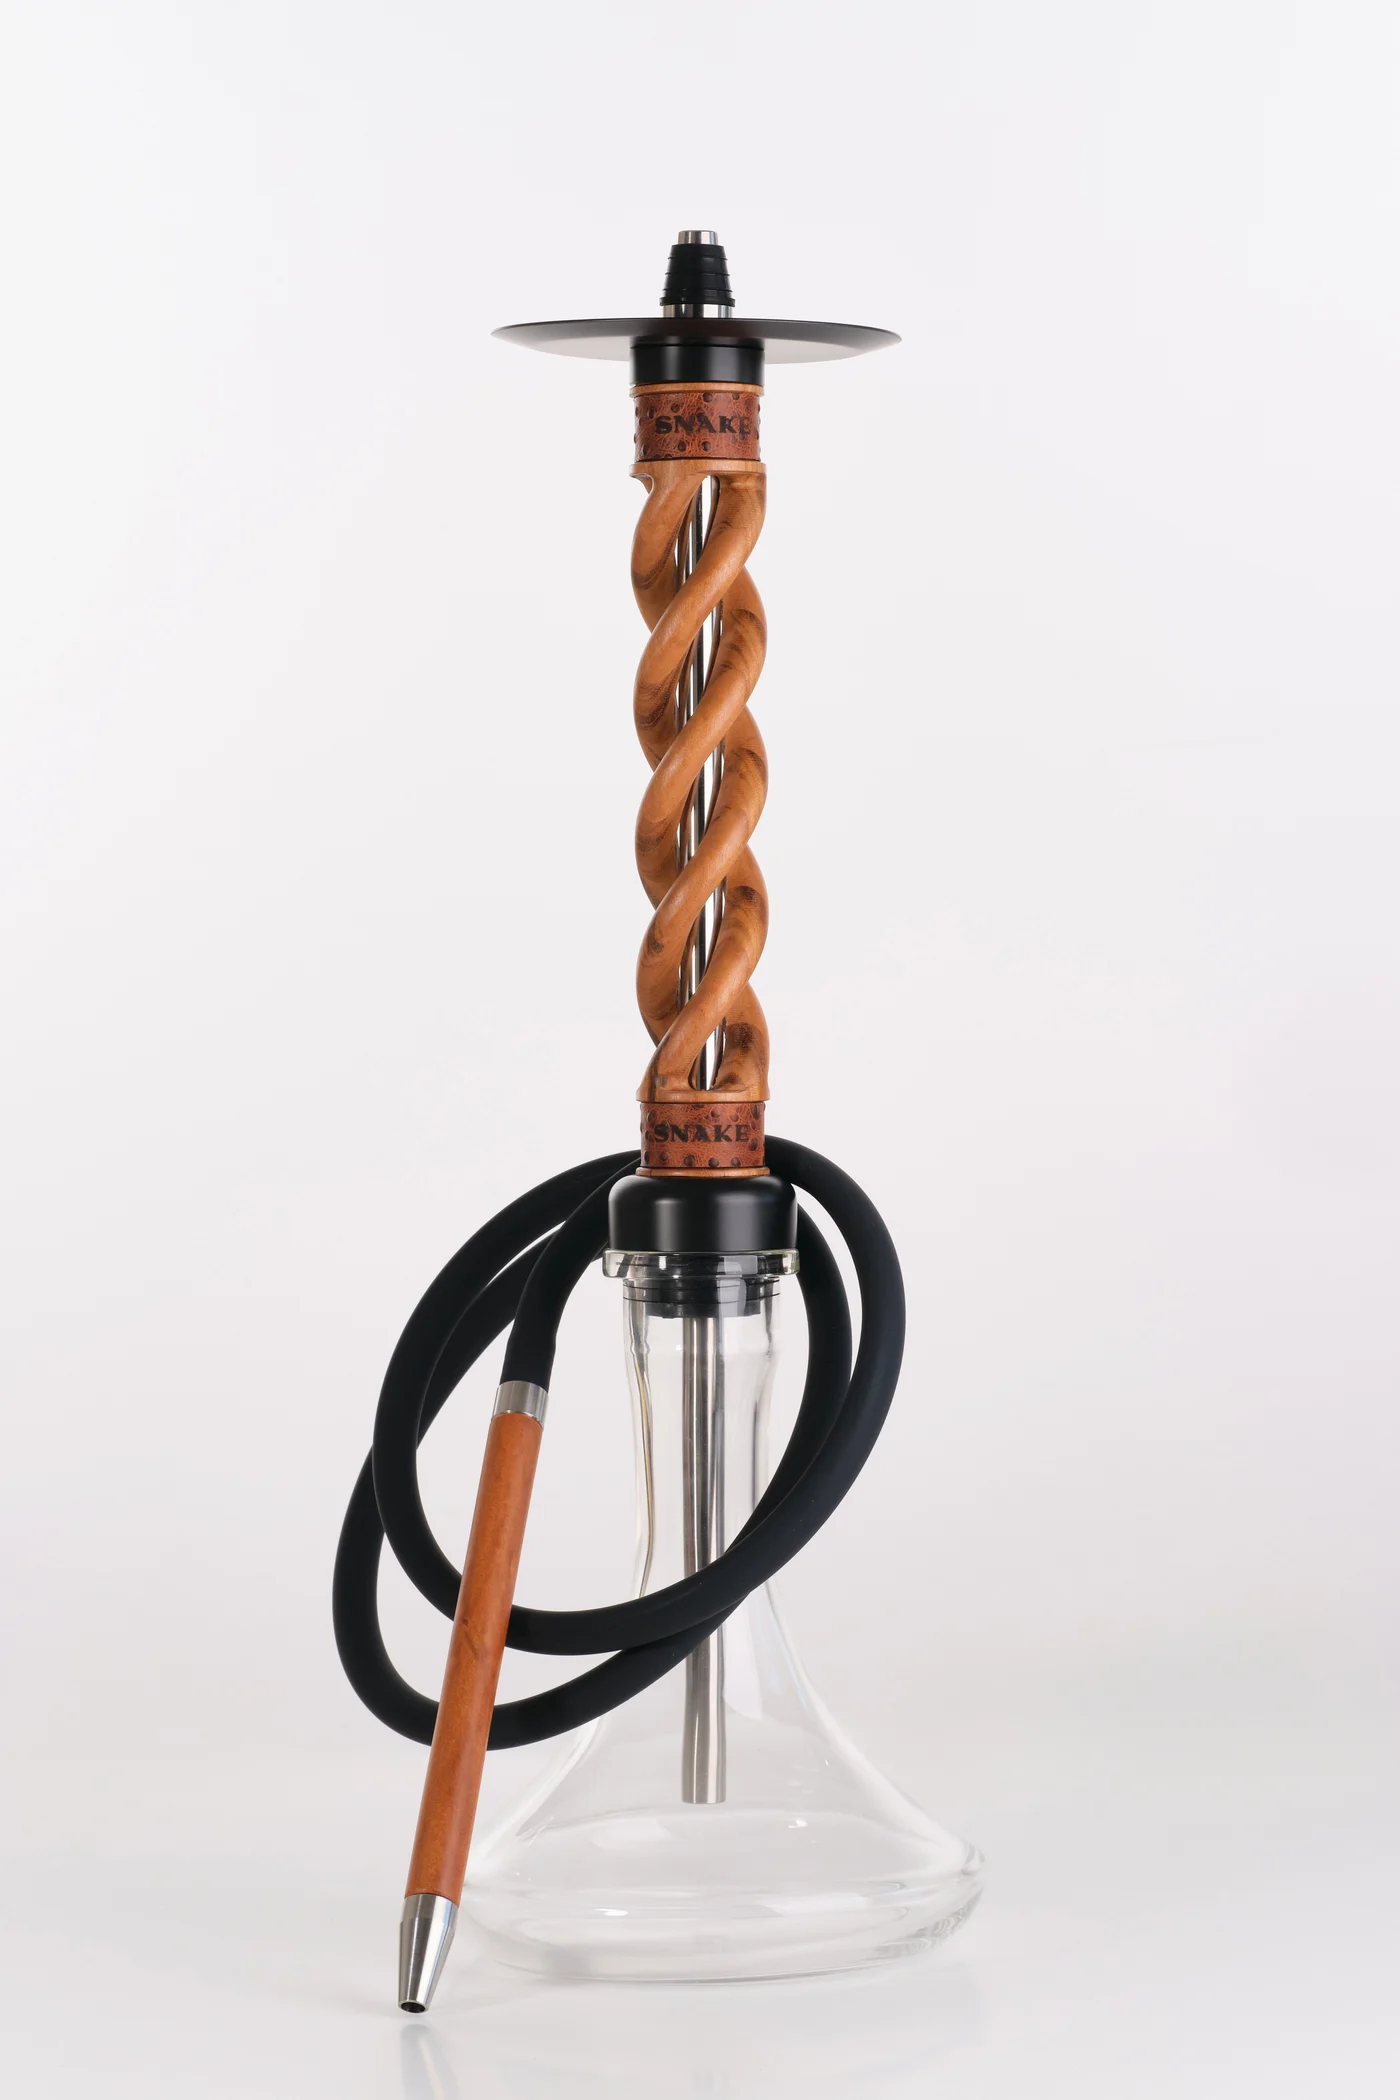
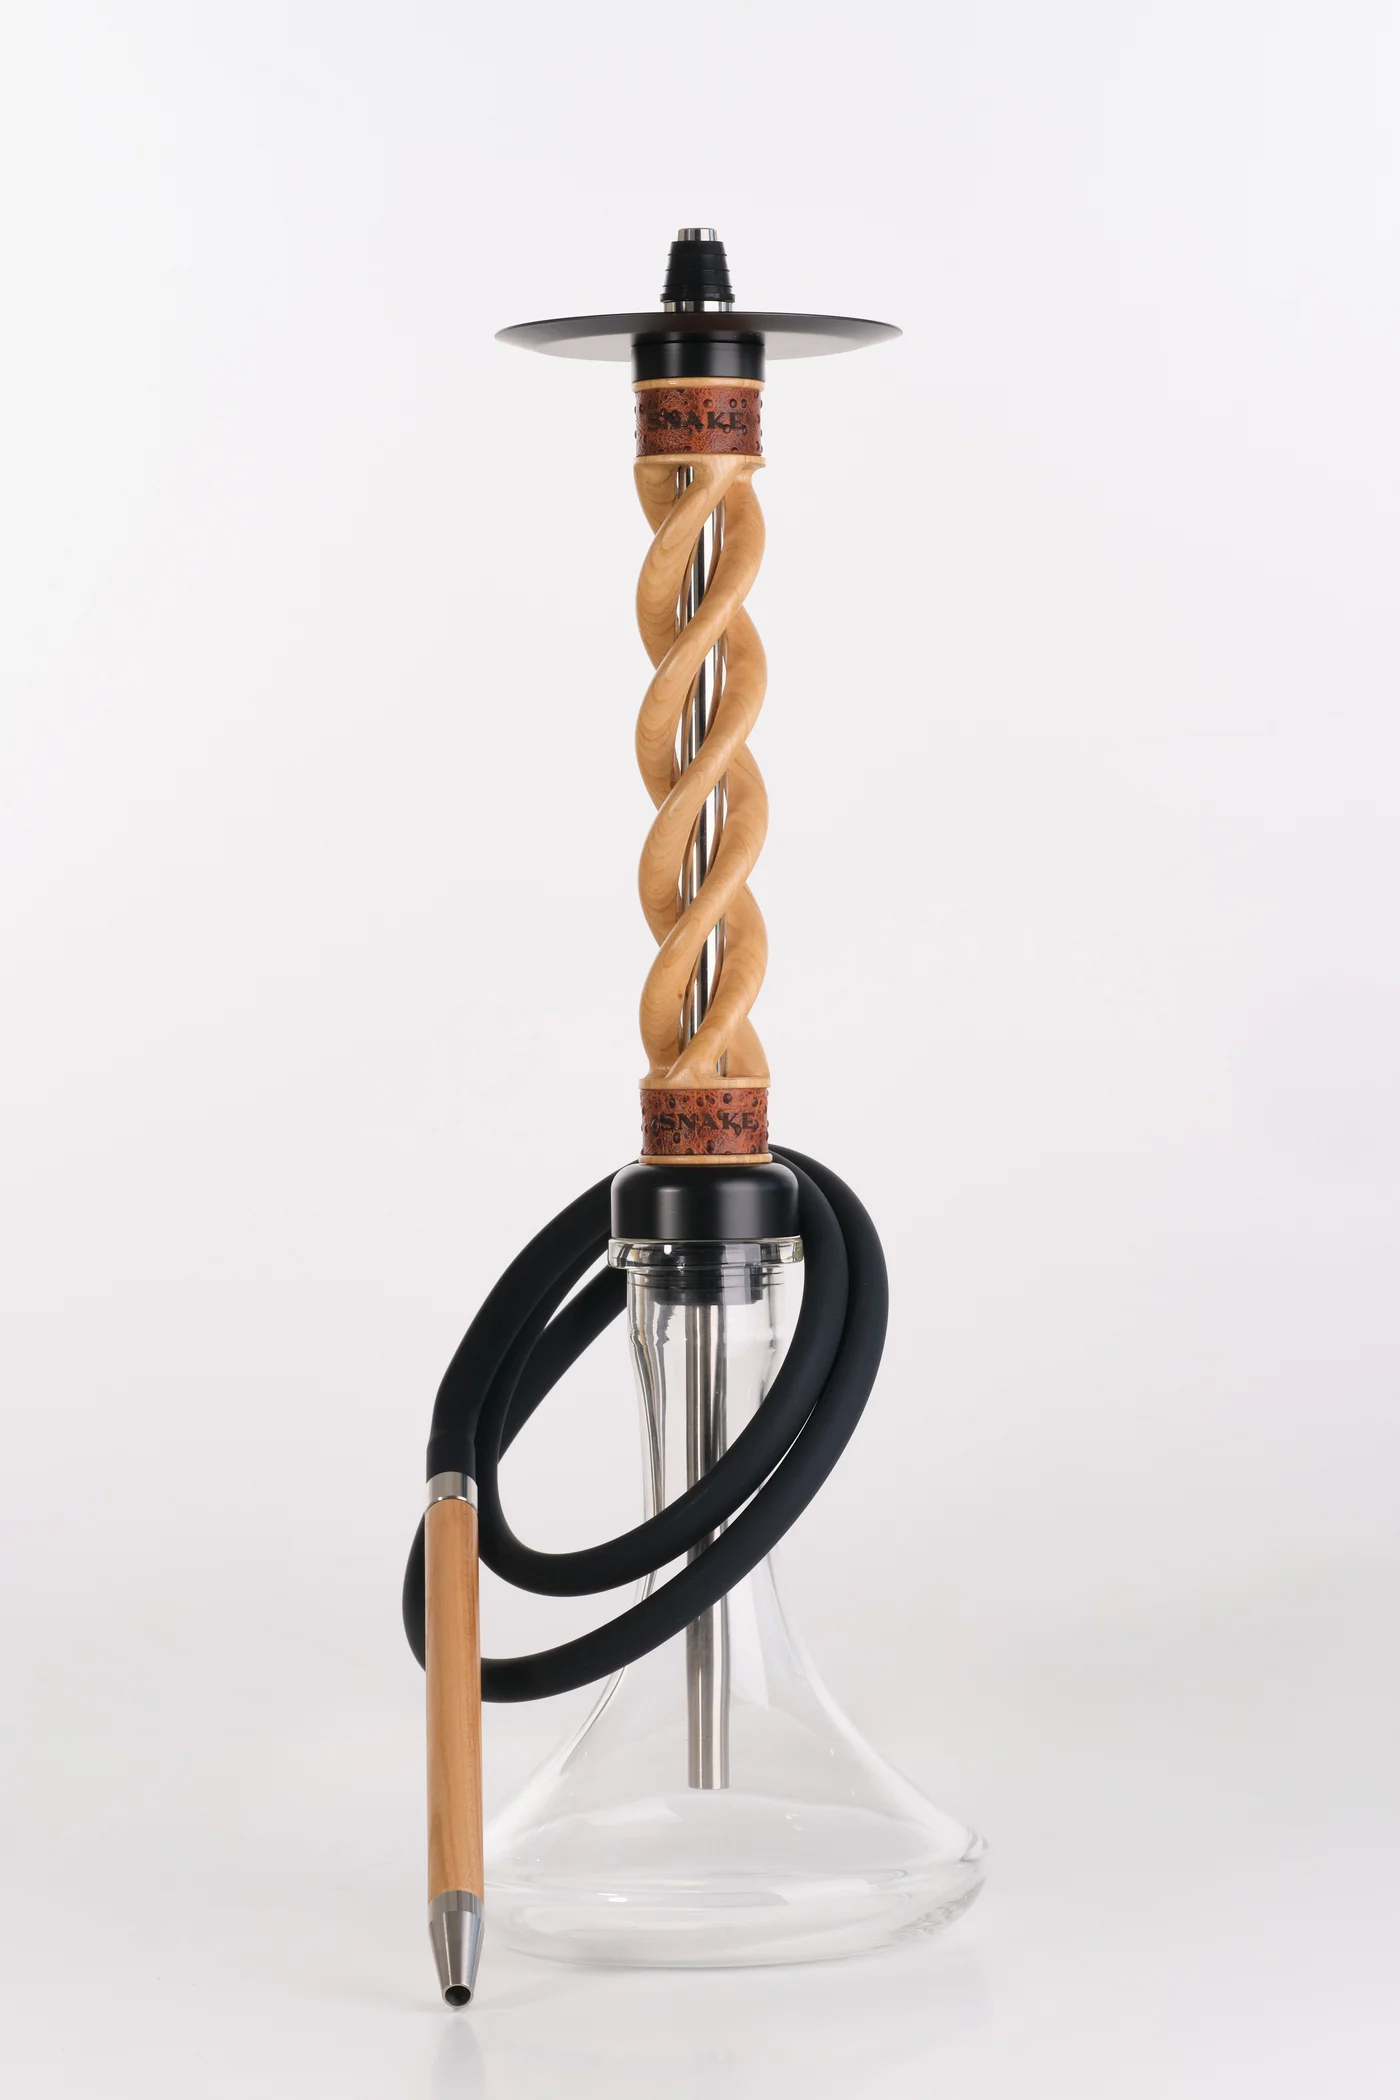
Full photo/video correction from user-organized каталог folders
User sorted all raw photos + 360 clips into per-product folders
(каталог/<Product Name>/), resolving prior ambiguity and expanding
every product's gallery:

- Fixed a real mismatch: Sucupira Cognac was showing Tigerwood's photos
  (Photo-52/33 have striped tiger grain, not Sucupira's smooth honey
  wood) — this was flagged as the one low-confidence pairing from the
  original photo-matching pass. Now each has its own correct, complete
  photo set.
- Every product gallery expanded from 1-3 images to 4-8, adding flatlay
  shots, alternate angles, and (Wild Collection) macro hose-texture
  details, all pulled from the user-verified folders.
- Re-transcoded all 7 Spiral 360° videos from the same authoritative
  source folders (mapping unchanged from what was already live, just
  re-sourced for certainty).
- process-images.mjs and new process-videos.mjs now read directly from
  каталог/ instead of a session-scoped scratch directory.

Changed region(s): [[0.215, 0.0929, 0.645, 0.9905], [0.3993, 0.9286, 0.5529, 0.9595]]

diff --git a/site/lib/data/products.ts b/site/lib/data/products.ts
@@ -90,6 +90,11 @@ export const products: Product[] = [
       { src: "/images/products/snk-spr-wln-grn/1-front.webp", width: 1400, height: 2100, alt: "Snake Hookah Spiral Walnut Green — загальний вигляд" },
       { src: "/images/products/snk-spr-wln-grn/2-crown.webp", width: 1400, height: 2100, alt: "Snake Hookah Spiral Walnut Green — верхнє кільце та спіраль зблизька" },
       { src: "/images/products/snk-spr-wln-grn/3-base.webp", width: 1400, height: 2100, alt: "Snake Hookah Spiral Walnut Green — колба та шланг зблизька" },
+      { src: "/images/products/snk-spr-wln-grn/4-flatlay.webp", width: 1400, height: 1750, alt: "Snake Hookah Spiral Walnut Green — комплектація" },
+      { src: "/images/products/snk-spr-wln-grn/5-alt.webp", width: 1400, height: 2100, alt: "Snake Hookah Spiral Walnut Green — інший ракурс" },
+      { src: "/images/products/snk-spr-wln-grn/6-alt.webp", width: 1400, height: 2100, alt: "Snake Hookah Spiral Walnut Green — інший ракурс" },
+      { src: "/images/products/snk-spr-wln-grn/7-alt.webp", width: 1400, height: 2100, alt: "Snake Hookah Spiral Walnut Green — інший ракурс" },
+      { src: "/images/products/snk-spr-wln-grn/8-alt.webp", width: 1400, height: 1750, alt: "Snake Hookah Spiral Walnut Green — інший ракурс" },
     ],
     video: "/videos/products/snk-spr-wln-grn/360.mp4",
     seoTitle: "Snake Hookah Spiral Walnut Green — купити кальян | Snake",
@@ -115,6 +120,10 @@ export const products: Product[] = [
       { src: "/images/products/snk-spr-wng/2-crown.webp", width: 1400, height: 2100, alt: "Snake Hookah Spiral Wenge — верхнє кільце та спіраль зблизька" },
       { src: "/images/products/snk-spr-wng/3-base.webp", width: 1400, height: 2100, alt: "Snake Hookah Spiral Wenge — колба та шланг зблизька" },
       { src: "/images/products/snk-spr-wng/4-flatlay.webp", width: 1400, height: 1750, alt: "Snake Hookah Spiral Wenge — комплектація" },
+      { src: "/images/products/snk-spr-wng/5-alt.webp", width: 1400, height: 2100, alt: "Snake Hookah Spiral Wenge — інший ракурс" },
+      { src: "/images/products/snk-spr-wng/6-alt.webp", width: 1400, height: 2100, alt: "Snake Hookah Spiral Wenge — інший ракурс" },
+      { src: "/images/products/snk-spr-wng/7-alt.webp", width: 1400, height: 2100, alt: "Snake Hookah Spiral Wenge — інший ракурс" },
+      { src: "/images/products/snk-spr-wng/8-alt.webp", width: 1400, height: 1750, alt: "Snake Hookah Spiral Wenge — інший ракурс" },
     ],
     video: "/videos/products/snk-spr-wng/360.mp4",
     seoTitle: "Кальян Snake Hookah Spiral Wenge — купити | Snake Hookah",
@@ -137,7 +146,10 @@ export const products: Product[] = [
     ],
     images: [
       { src: "/images/products/snk-spr-suc-cgn/1-front.webp", width: 1400, height: 2100, alt: "Snake Hookah Spiral Sucupira Cognac — загальний вигляд" },
-      { src: "/images/products/snk-spr-suc-cgn/2-flatlay.webp", width: 1400, height: 1750, alt: "Snake Hookah Spiral Sucupira Cognac — комплектація" },
+      { src: "/images/products/snk-spr-suc-cgn/2-crown.webp", width: 1400, height: 2100, alt: "Snake Hookah Spiral Sucupira Cognac — верхнє кільце та спіраль зблизька" },
+      { src: "/images/products/snk-spr-suc-cgn/3-base.webp", width: 1400, height: 2100, alt: "Snake Hookah Spiral Sucupira Cognac — колба та шланг зблизька" },
+      { src: "/images/products/snk-spr-suc-cgn/4-flatlay.webp", width: 1400, height: 1750, alt: "Snake Hookah Spiral Sucupira Cognac — комплектація" },
+      { src: "/images/products/snk-spr-suc-cgn/5-alt.webp", width: 1400, height: 1750, alt: "Snake Hookah Spiral Sucupira Cognac — інший ракурс" },
     ],
     video: "/videos/products/snk-spr-suc-cgn/360.mp4",
     seoTitle: "Snake Hookah Spiral Sucupira Cognac — купити кальян | Snake",
@@ -162,6 +174,11 @@ export const products: Product[] = [
       { src: "/images/products/snk-spr-tgr/1-front.webp", width: 1400, height: 2100, alt: "Snake Hookah Spiral Tigerwood — загальний вигляд" },
       { src: "/images/products/snk-spr-tgr/2-crown.webp", width: 1400, height: 2100, alt: "Snake Hookah Spiral Tigerwood — верхнє кільце та спіраль зблизька" },
       { src: "/images/products/snk-spr-tgr/3-base.webp", width: 1400, height: 2100, alt: "Snake Hookah Spiral Tigerwood — колба та шланг зблизька" },
+      { src: "/images/products/snk-spr-tgr/4-flatlay.webp", width: 1400, height: 1750, alt: "Snake Hookah Spiral Tigerwood — комплектація" },
+      { src: "/images/products/snk-spr-tgr/5-alt.webp", width: 1400, height: 2100, alt: "Snake Hookah Spiral Tigerwood — інший ракурс" },
+      { src: "/images/products/snk-spr-tgr/6-alt.webp", width: 1400, height: 2100, alt: "Snake Hookah Spiral Tigerwood — інший ракурс" },
+      { src: "/images/products/snk-spr-tgr/7-alt.webp", width: 1400, height: 2100, alt: "Snake Hookah Spiral Tigerwood — інший ракурс" },
+      { src: "/images/products/snk-spr-tgr/8-alt.webp", width: 1400, height: 1750, alt: "Snake Hookah Spiral Tigerwood — інший ракурс" },
     ],
     video: "/videos/products/snk-spr-tgr/360.mp4",
     seoTitle: "Кальян Snake Hookah Spiral Tigerwood — купити | Snake Hookah",
@@ -186,6 +203,9 @@ export const products: Product[] = [
       { src: "/images/products/snk-spr-wln-wht/1-front.webp", width: 1400, height: 2100, alt: "Snake Hookah Spiral Walnut White — загальний вигляд" },
       { src: "/images/products/snk-spr-wln-wht/2-crown.webp", width: 1400, height: 2100, alt: "Snake Hookah Spiral Walnut White — верхнє кільце та спіраль зблизька" },
       { src: "/images/products/snk-spr-wln-wht/3-base.webp", width: 1400, height: 2100, alt: "Snake Hookah Spiral Walnut White — колба та шланг зблизька" },
+      { src: "/images/products/snk-spr-wln-wht/4-flatlay.webp", width: 1400, height: 1750, alt: "Snake Hookah Spiral Walnut White — комплектація" },
+      { src: "/images/products/snk-spr-wln-wht/5-alt.webp", width: 1400, height: 1750, alt: "Snake Hookah Spiral Walnut White — інший ракурс" },
+      { src: "/images/products/snk-spr-wln-wht/6-alt.webp", width: 1400, height: 1750, alt: "Snake Hookah Spiral Walnut White — інший ракурс" },
     ],
     video: "/videos/products/snk-spr-wln-wht/360.mp4",
     seoTitle: "Snake Hookah Spiral Walnut White — купити кальян | Snake",
@@ -208,6 +228,10 @@ export const products: Product[] = [
     ],
     images: [
       { src: "/images/products/snk-spr-suc-brn/1-front.webp", width: 1400, height: 2100, alt: "Snake Hookah Spiral Sucupira Brown — загальний вигляд" },
+      { src: "/images/products/snk-spr-suc-brn/2-flatlay.webp", width: 1400, height: 1750, alt: "Snake Hookah Spiral Sucupira Brown — комплектація" },
+      { src: "/images/products/snk-spr-suc-brn/3-alt.webp", width: 1400, height: 2100, alt: "Snake Hookah Spiral Sucupira Brown — інший ракурс" },
+      { src: "/images/products/snk-spr-suc-brn/4-alt.webp", width: 1400, height: 2100, alt: "Snake Hookah Spiral Sucupira Brown — інший ракурс" },
+      { src: "/images/products/snk-spr-suc-brn/5-alt.webp", width: 1400, height: 1750, alt: "Snake Hookah Spiral Sucupira Brown — інший ракурс" },
     ],
     video: "/videos/products/snk-spr-suc-brn/360.mp4",
     seoTitle: "Snake Hookah Spiral Sucupira Brown — купити кальян | Snake",
@@ -232,6 +256,7 @@ export const products: Product[] = [
       { src: "/images/products/snk-spr-wln-prp/1-front.webp", width: 1400, height: 2100, alt: "Snake Hookah Spiral Walnut Purple — загальний вигляд" },
       { src: "/images/products/snk-spr-wln-prp/2-crown.webp", width: 1400, height: 2100, alt: "Snake Hookah Spiral Walnut Purple — верхнє кільце та спіраль зблизька" },
       { src: "/images/products/snk-spr-wln-prp/3-base.webp", width: 1400, height: 2100, alt: "Snake Hookah Spiral Walnut Purple — колба та шланг зблизька" },
+      { src: "/images/products/snk-spr-wln-prp/4-alt.webp", width: 1400, height: 1750, alt: "Snake Hookah Spiral Walnut Purple — інший ракурс" },
     ],
     video: "/videos/products/snk-spr-wln-prp/360.mp4",
     seoTitle: "Snake Hookah Spiral Walnut Purple — купити кальян | Snake",
@@ -254,6 +279,10 @@ export const products: Product[] = [
     images: [
       { src: "/images/products/snk-wld-crc-grn/1-front.webp", width: 1200, height: 1800, alt: "Snake Hookah Wild Collection Green Crocodile — загальний вигляд" },
       { src: "/images/products/snk-wld-crc-grn/2-crown.webp", width: 1200, height: 1800, alt: "Snake Hookah Wild Collection Green Crocodile — верхнє кільце зблизька" },
+      { src: "/images/products/snk-wld-crc-grn/3-flatlay.webp", width: 1200, height: 1800, alt: "Snake Hookah Wild Collection Green Crocodile — комплектація" },
+      { src: "/images/products/snk-wld-crc-grn/4-detail.webp", width: 1200, height: 1500, alt: "Snake Hookah Wild Collection Green Crocodile — фактура шкіри шланга зблизька" },
+      { src: "/images/products/snk-wld-crc-grn/5-detail.webp", width: 1200, height: 1500, alt: "Snake Hookah Wild Collection Green Crocodile — фактура шкіри шланга зблизька" },
+      { src: "/images/products/snk-wld-crc-grn/6-detail.webp", width: 1200, height: 1500, alt: "Snake Hookah Wild Collection Green Crocodile — фактура шкіри шланга зблизька" },
     ],
     seoTitle: "Snake Hookah Wild Collection Green Crocodile — купити кальян | Snake",
     seoDescription:
@@ -276,6 +305,8 @@ export const products: Product[] = [
       { src: "/images/products/snk-wld-crc-blu/1-front.webp", width: 1200, height: 1800, alt: "Snake Hookah Wild Collection Blue Crocodile — загальний вигляд" },
       { src: "/images/products/snk-wld-crc-blu/2-crown.webp", width: 1200, height: 1800, alt: "Snake Hookah Wild Collection Blue Crocodile — верхнє кільце зблизька" },
       { src: "/images/products/snk-wld-crc-blu/3-flatlay.webp", width: 1200, height: 1800, alt: "Snake Hookah Wild Collection Blue Crocodile — комплектація" },
+      { src: "/images/products/snk-wld-crc-blu/4-alt.webp", width: 1200, height: 1800, alt: "Snake Hookah Wild Collection Blue Crocodile — інший ракурс" },
+      { src: "/images/products/snk-wld-crc-blu/5-alt.webp", width: 1200, height: 1800, alt: "Snake Hookah Wild Collection Blue Crocodile — інший ракурс" },
     ],
     seoTitle: "Snake Hookah Wild Collection Blue Crocodile — купити кальян | Snake",
     seoDescription:
@@ -297,6 +328,10 @@ export const products: Product[] = [
     images: [
       { src: "/images/products/snk-wld-ost-cgn/1-front.webp", width: 1200, height: 1800, alt: "Snake Hookah Wild Collection Cognac Ostrich — загальний вигляд" },
       { src: "/images/products/snk-wld-ost-cgn/2-crown.webp", width: 1200, height: 1800, alt: "Snake Hookah Wild Collection Cognac Ostrich — верхнє кільце зблизька" },
+      { src: "/images/products/snk-wld-ost-cgn/3-flatlay.webp", width: 1200, height: 1800, alt: "Snake Hookah Wild Collection Cognac Ostrich — комплектація" },
+      { src: "/images/products/snk-wld-ost-cgn/4-detail.webp", width: 1200, height: 1500, alt: "Snake Hookah Wild Collection Cognac Ostrich — фактура шкіри шланга зблизька" },
+      { src: "/images/products/snk-wld-ost-cgn/5-detail.webp", width: 1200, height: 1500, alt: "Snake Hookah Wild Collection Cognac Ostrich — фактура шкіри шланга зблизька" },
+      { src: "/images/products/snk-wld-ost-cgn/6-detail.webp", width: 1200, height: 1500, alt: "Snake Hookah Wild Collection Cognac Ostrich — фактура шкіри шланга зблизька" },
     ],
     seoTitle: "Snake Hookah Wild Collection Cognac Ostrich — купити кальян | Snake",
     seoDescription:
@@ -319,6 +354,9 @@ export const products: Product[] = [
       { src: "/images/products/snk-wld-leo/1-front.webp", width: 1200, height: 1800, alt: "Snake Hookah Wild Collection Leopard — загальний вигляд" },
       { src: "/images/products/snk-wld-leo/2-crown.webp", width: 1200, height: 1800, alt: "Snake Hookah Wild Collection Leopard — верхнє кільце зблизька" },
       { src: "/images/products/snk-wld-leo/3-flatlay.webp", width: 1200, height: 1800, alt: "Snake Hookah Wild Collection Leopard — комплектація" },
+      { src: "/images/products/snk-wld-leo/4-detail.webp", width: 1200, height: 1500, alt: "Snake Hookah Wild Collection Leopard — фактура шкіри шланга зблизька" },
+      { src: "/images/products/snk-wld-leo/5-detail.webp", width: 1200, height: 1500, alt: "Snake Hookah Wild Collection Leopard — фактура шкіри шланга зблизька" },
+      { src: "/images/products/snk-wld-leo/6-detail.webp", width: 1200, height: 1500, alt: "Snake Hookah Wild Collection Leopard — фактура шкіри шланга зблизька" },
     ],
     seoTitle: "Snake Hookah Wild Collection Leopard — купити кальян | Snake",
     seoDescription: